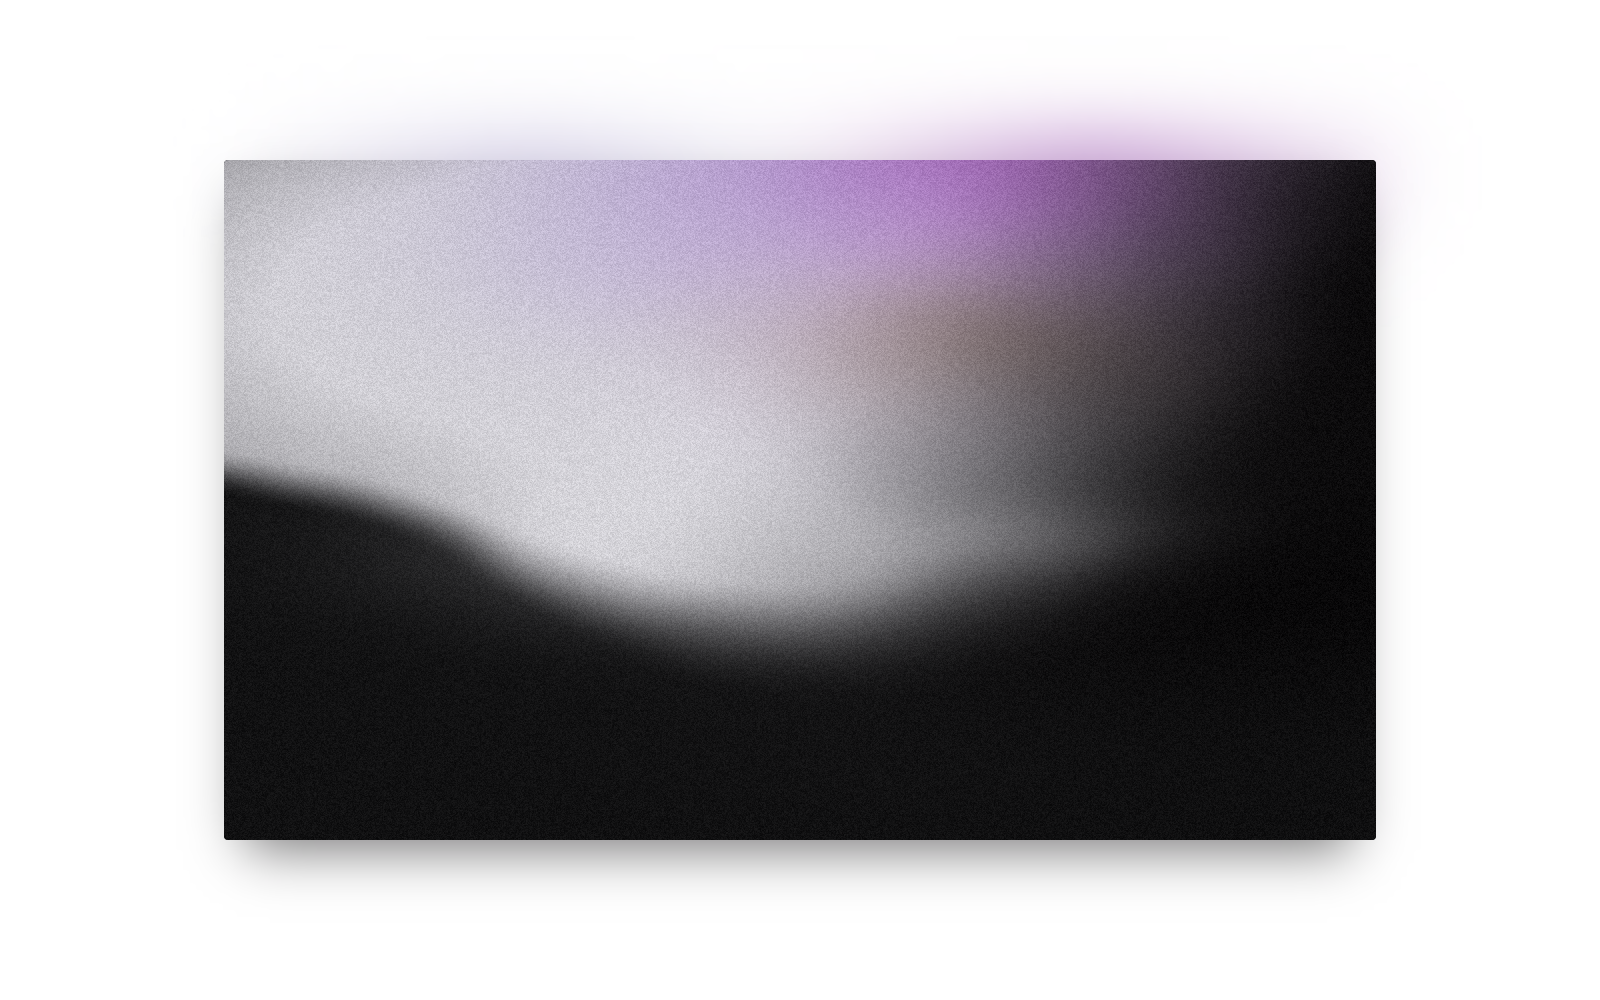
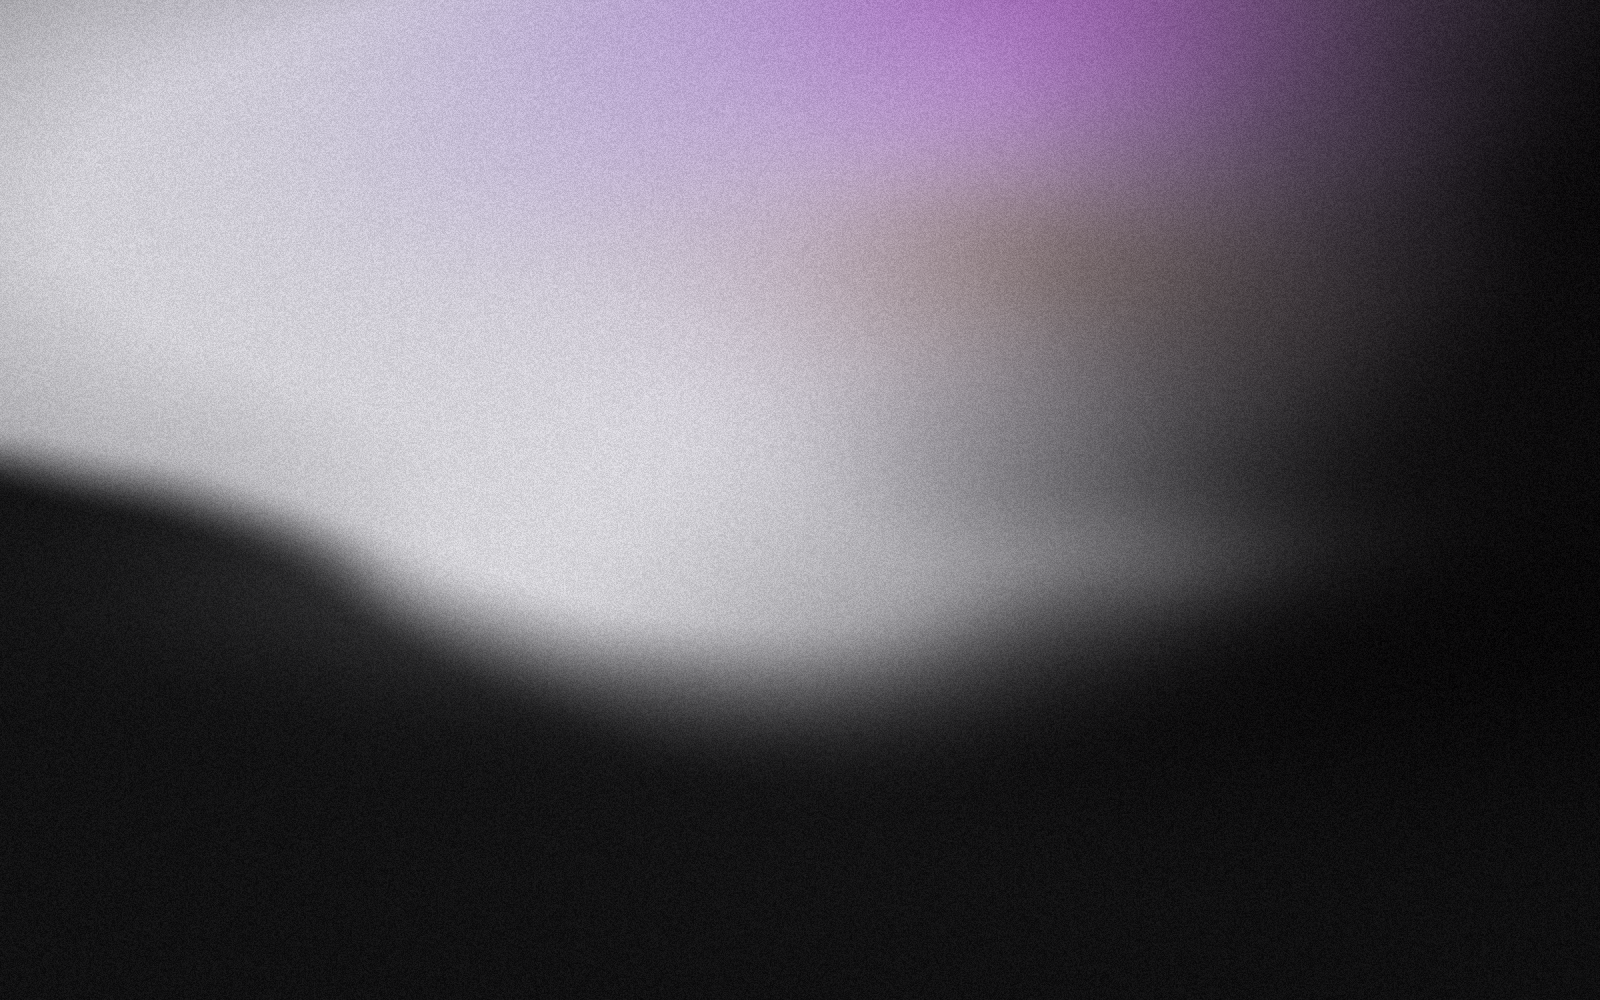
velvet-haze: just the shader, full screen
Drop the framed-card demo, the page background, and the drop shadow and glow
drawn outside the box (cast param, radius prop, castOffset). The section is
the root again; one demo, full screen. Cover and thumb re-shot.

Claude-Session: https://claude.ai/code/session_01KLiNxWaE8SzTUE72vFk9Xs

diff --git a/components/velvet-haze/velvet-haze.tsx b/components/velvet-haze/velvet-haze.tsx
@@ -15,8 +15,7 @@ import * as React from "react"
  *
  * The pointer drags the silk: the haze gathers under it, smears along the
  * gesture and pushes the shadow back. A click sends a refractive ring through
- * it. Outside the frame, a drop shadow and a violet glow sit opposite the light
- * and swing as it moves — the shadow the piece casts onto the page.
+ * it.
  *
  * Self-contained: raw WebGL2, React is the only import. No textures, no image
  * assets, no CSS file. The canvas sizes itself from its own box, never the
@@ -62,9 +61,6 @@ export type HazeParams = {
   drag: number
   /** Pointer reach, as a fraction of the box's short side. */
   reach: number
-  // the cast shadow, outside the frame
-  /** Opacity of the drop shadow and violet glow around the box. 0 hides both. */
-  cast: number
   // palette, dark to bright
   inkColor: string
   shadowColor: string
@@ -97,8 +93,6 @@ export const HAZE_DEFAULTS: HazeParams = {
   lens: 0.6,
   drag: 1,
   reach: 0.42,
-
-  cast: 1,
 
   inkColor: "#111112",
   shadowColor: "#060506",
@@ -316,15 +310,6 @@ export function driftPos(t: number) {
   return [Math.min(Math.max(x, 0.08), 0.92), Math.min(Math.max(y, 0.08), 0.92)]
 }
 
-/**
- * Where the cast shadow sits, in px, for a lamp at (x, y) in 0..1. It falls
- * away from the light, always somewhat downward, like a card lit from above.
- */
-export function castOffset(x: number, y: number, depth: number) {
-  const cx = Math.min(Math.max(x, 0), 1) - 0.5
-  const cy = Math.min(Math.max(y, 0), 1) - 0.5
-  return [-cx * depth, depth * 0.55 - cy * depth * 0.6]
-}
 // #endregion
 
 export type VelvetHazeProps = {
@@ -337,10 +322,8 @@ export type VelvetHazeProps = {
   preset?: keyof typeof HAZE_PRESETS
   /** Overrides layered over the preset. */
   params?: Partial<HazeParams>
-  /** Pointer drags the silk and swings the cast shadow; click sends a ring. */
+  /** Pointer drags the silk and pushes the shadow back; click sends a ring. */
   interactive?: boolean
-  /** Corner radius of the frame, any CSS length. */
-  radius?: string
   /** Device-pixel-ratio cap. Grain is per-pixel, so 2 is plenty. */
   maxDpr?: number
   /** Content laid over the haze. Pointer events pass through unless opted in. */
@@ -353,15 +336,12 @@ export default function VelvetHaze({
   preset = "velvet",
   params,
   interactive = true,
-  radius = "0px",
   maxDpr = 2,
   children,
   className = "",
 }: VelvetHazeProps) {
   const rootRef = React.useRef<HTMLElement>(null)
   const canvasRef = React.useRef<HTMLCanvasElement>(null)
-  const castRef = React.useRef<HTMLDivElement>(null)
-  const glowRef = React.useRef<HTMLDivElement>(null)
   const [failed, setFailed] = React.useState(false)
   const [generation, setGeneration] = React.useState(0)
   const [reduced, setReduced] = React.useState(false)
@@ -518,24 +498,6 @@ export default function VelvetHaze({
     canvas.addEventListener("webglcontextlost", onLost)
     canvas.addEventListener("webglcontextrestored", onRestored)
 
-    // ---- the shadow it casts onto the page ---------------------------------
-    let castKey = ""
-    const placeCast = (x: number, y: number, amount: number) => {
-      const cast = castRef.current
-      const glow = glowRef.current
-      if (!cast || !glow) return
-      const depth = Math.min(Math.max(Math.min(cssW, cssH) * 0.06, 10), 48)
-      const [dx, dy] = castOffset(x, y, depth)
-      // Only touch the DOM when the shadow has visibly moved.
-      const key = Math.round(dx) + ":" + Math.round(dy) + ":" + Math.round(amount * 50)
-      if (key === castKey) return
-      castKey = key
-      cast.style.transform = "translate3d(" + dx.toFixed(1) + "px," + dy.toFixed(1) + "px,0) scale(0.96)"
-      cast.style.opacity = String(0.55 * amount)
-      glow.style.transform = "translate3d(" + (-dx * 0.5).toFixed(1) + "px," + (-dy * 0.35).toFixed(1) + "px,0)"
-      glow.style.opacity = String(0.6 * amount)
-    }
-
     // ---- one frame ----------------------------------------------------------
     const paint = () => {
       const p = paramsRef.current
@@ -583,8 +545,6 @@ export default function VelvetHaze({
       gl.uniform2f(U.smear, smearX, smearY)
       gl.uniform4fv(U.ripple, ripples)
       gl.drawArrays(gl.TRIANGLES, 0, 3)
-
-      placeCast(lampX, lampY, Math.max(p.cast, 0))
     }
 
     // ---- loop, paused whenever nobody can see it -----------------------------
@@ -629,68 +589,33 @@ export default function VelvetHaze({
     }
   }, [interactive, reduced, generation, maxDpr])
 
-  const cast = Math.max(P.cast, 0)
-
   return (
-    <div className={"relative isolate w-full " + className}>
-      {cast > 0 ? (
-        <>
-          {/* The drop shadow: a blurred dark card, shifted away from the light. */}
-          <div
-            ref={castRef}
-            aria-hidden="true"
-            className="pointer-events-none absolute inset-0 -z-10 transition-opacity duration-500 motion-reduce:transition-none"
-            style={{
-              borderRadius: radius,
-              background: P.shadowColor,
-              filter: "blur(28px)",
-              opacity: 0.55 * cast,
-              transform: "translate3d(0px,18px,0) scale(0.96)",
-              willChange: "transform",
-            }}
-          />
-          {/* The light leaking past the frame: violet top right, silver top left. */}
-          <div
-            ref={glowRef}
-            aria-hidden="true"
-            className="pointer-events-none absolute -inset-[3%] -z-10 transition-opacity duration-500 motion-reduce:transition-none"
-            style={{
-              borderRadius: radius,
-              background:
-                "radial-gradient(40% 32% at 74% 4%, " + P.violetColor + " 0%, transparent 72%)," +
-                "radial-gradient(36% 30% at 28% 6%, " + P.lavenderColor + " 0%, transparent 70%)",
-              filter: "blur(36px)",
-              opacity: 0.6 * cast,
-              willChange: "transform",
-            }}
-          />
-        </>
+    <section
+      ref={rootRef}
+      className={
+        "relative w-full overflow-hidden " + (interactive ? "cursor-crosshair touch-pan-y " : "") + className
+      }
+      style={{ height, background: P.inkColor }}
+      aria-label="A soft silver and violet light leak on grainy black film"
+    >
+      {failed ? (
+        // No WebGL2: a still picture of the same light beats a black box.
+        <div
+          className="absolute inset-0"
+          style={{
+            background:
+              "radial-gradient(40% 30% at 74% 0%, " + P.violetColor + " 0%, transparent 70%)," +
+              "linear-gradient(160deg, transparent 52%, " + P.shadowColor + " 70%)," +
+              "radial-gradient(60% 50% at 34% 26%, " + P.silverColor + " 0%, " + P.lavenderColor + " 30%, transparent 72%)," +
+              P.inkColor,
+          }}
+        />
+      ) : (
+        <canvas ref={canvasRef} aria-hidden="true" className="absolute inset-0 block h-full w-full" />
+      )}
+      {children ? (
+        <div className="pointer-events-none relative z-10 flex h-full w-full flex-col">{children}</div>
       ) : null}
-      <section
-        ref={rootRef}
-        className={"relative w-full overflow-hidden " + (interactive ? "cursor-crosshair touch-pan-y" : "")}
-        style={{ height, borderRadius: radius, background: P.inkColor }}
-        aria-label="A soft silver and violet light leak on grainy black film"
-      >
-        {failed ? (
-          // No WebGL2: a still picture of the same light beats a black box.
-          <div
-            className="absolute inset-0"
-            style={{
-              background:
-                "radial-gradient(40% 30% at 74% 0%, " + P.violetColor + " 0%, transparent 70%)," +
-                "linear-gradient(160deg, transparent 52%, " + P.shadowColor + " 70%)," +
-                "radial-gradient(60% 50% at 34% 26%, " + P.silverColor + " 0%, " + P.lavenderColor + " 30%, transparent 72%)," +
-                P.inkColor,
-            }}
-          />
-        ) : (
-          <canvas ref={canvasRef} aria-hidden="true" className="absolute inset-0 block h-full w-full" />
-        )}
-        {children ? (
-          <div className="pointer-events-none relative z-10 flex h-full w-full flex-col">{children}</div>
-        ) : null}
-      </section>
-    </div>
+    </section>
   )
 }

diff --git a/components/velvet-haze/demo.tsx b/components/velvet-haze/demo.tsx
@@ -2,16 +2,12 @@
 
 import VelvetHaze from "@/components/ui/velvet-haze"
 
-// The haze as a framed card on the page, the way the reference sits: the
-// padding is room for the shadow and the violet glow it casts outside the box.
 export default function Demo() {
   return (
     // w-full matters: 21st centres demos in a flex wrapper, and a flex item
     // left at width:auto shrinks the haze to 0px wide.
-    <div className="relative flex min-h-[100svh] w-full items-center justify-center bg-background px-4 py-14 sm:px-12">
-      <div className="relative w-full max-w-6xl">
-        <VelvetHaze height="min(78svh, 680px)" radius="4px" />
-      </div>
+    <div className="relative w-full">
+      <VelvetHaze />
     </div>
   )
 }

diff --git a/components/velvet-haze/README.md b/components/velvet-haze/README.md
@@ -7,11 +7,8 @@ frame and a dark mass curling in from the right. Film grain re-rolls at 24 fps
 with a little gate weave, so it shivers like projected film rather than
 crawling like video noise.
 
-Outside the frame it casts its own **shadow** onto the page: a soft drop shadow
-and a violet glow bleeding past the top edge. Both sit opposite the light and
-swing as it moves.
-
-Built as a **background**: drop content in as children and it sits on top.
+Full-screen by default — just the shader, nothing around it. Built as a
+**background**: drop content in as children and it sits on top.
 
 **No dependencies.** Raw WebGL2 in one fragment pass, React is the only import —
 no three.js, no textures, no image assets.
@@ -19,8 +16,7 @@ no three.js, no textures, no image assets.
 ## Interaction
 
 - **Move** — the haze gathers under the pointer, a fast gesture smears the silk
-  along it, the shadow from the right is pushed back, and the cast shadow swings
-  away from where the light now is.
+  along it, and the shadow from the right is pushed back.
 - **Click** — a refractive ring ripples through the haze.
 - **Leave it** — the light drifts on its own, so the silk keeps breathing.
 
@@ -29,10 +25,9 @@ no three.js, no textures, no image assets.
 ```tsx
 import VelvetHaze from "@/components/ui/velvet-haze"
 
-<VelvetHaze />                                        // full-bleed, 100svh
-<VelvetHaze height="640px" radius="6px" />            // a framed card, shadow and glow outside
+<VelvetHaze />                                        // full screen, 100svh
+<VelvetHaze height="640px" />
 <VelvetHaze preset="rose" params={{ grain: 0.12 }} />
-<VelvetHaze params={{ cast: 0 }} />                   // no cast shadow (full-bleed backgrounds)
 
 <VelvetHaze>
   <h1 className="m-auto text-7xl text-white">trnspr</h1>
@@ -44,10 +39,6 @@ Children sit in a `pointer-events-none` layer so the pointer still reaches the
 haze; give interactive elements `pointer-events-auto`. Clicks on links, buttons
 and form controls never send a ring.
 
-The cast shadow and glow are drawn *outside* the box. Leave the parent some room
-(padding, or a gap to the next section) if you want to see them, and set
-`params={{ cast: 0 }}` when the haze fills the viewport.
-
 ## Props
 
 | Prop | Default | Notes |
@@ -55,11 +46,10 @@ The cast shadow and glow are drawn *outside* the box. Leave the parent some room
 | `height` | `"100svh"` | **Must be a definite length.** The canvas fills this box. |
 | `preset` | `"velvet"` | `velvet` \| `chrome` \| `rose` \| `aqua` \| `ember`. |
 | `params` | — | `Partial<HazeParams>` layered over the preset. Live — never restarts WebGL. |
-| `interactive` | `true` | Pointer drag, ring on click, swinging shadow. |
-| `radius` | `"0px"` | Corner radius of the frame and its cast shadow. |
+| `interactive` | `true` | Pointer drag and ring on click. |
 | `maxDpr` | `2` | Device-pixel-ratio cap. |
 | `children` | — | Content over the haze. |
-| `className` | `""` | Appended to the outer wrapper. |
+| `className` | `""` | Appended to the root. |
 
 ## Customising
 
@@ -76,18 +66,15 @@ The cast shadow and glow are drawn *outside* the box. Leave the parent some room
 | `jitter` | Gate weave per grain frame, in CSS px. `0` holds the frame dead still. |
 | `vignette` | Darkens toward the bottom right, away from the light. |
 | `lens`, `drag`, `reach` | Pointer feel: gather, smear, radius. |
-| `cast` | Opacity of the drop shadow and glow outside the frame. `0` hides both. |
 | `inkColor` … `silverColor` | Six hex colours, dark to bright. |
 
 ## Notes
 
 - Needs WebGL2 (no extensions). Without it the component paints a still
   gradient of the same light rather than a black rectangle.
-- `prefers-reduced-motion`: the clock and the grain freeze on one frame, the
-  cast shadow stops easing, and clicks send no ring.
+- `prefers-reduced-motion`: the clock and the grain freeze on one frame, and
+  clicks send no ring.
 - Pauses when scrolled off-screen or the tab is hidden.
 - Sizes from its own box, not the window; pointer coordinates come from the
   canvas rect, so it behaves the same in a card as full-bleed.
 - A dropped GPU context rebuilds; every GL object is released on unmount.
-- The cast shadow is moved with `transform` only and touched only when it has
-  visibly moved, so it costs no layout.
